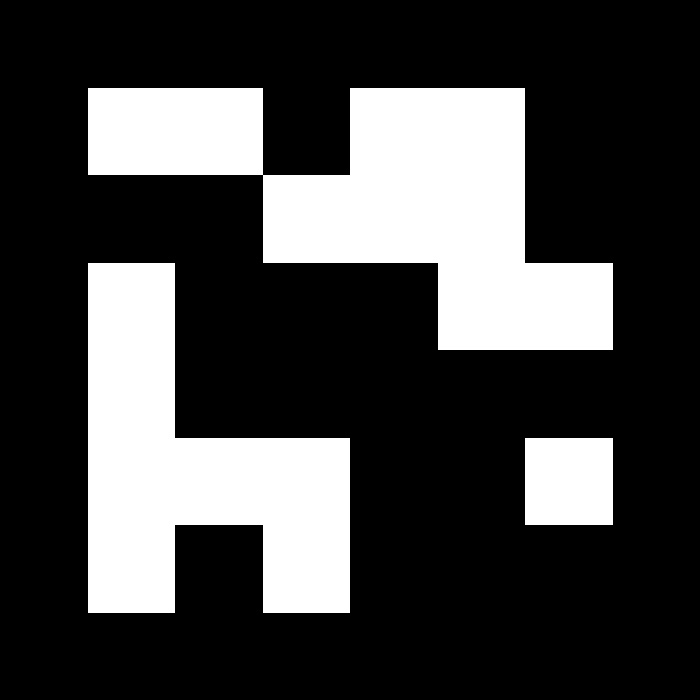
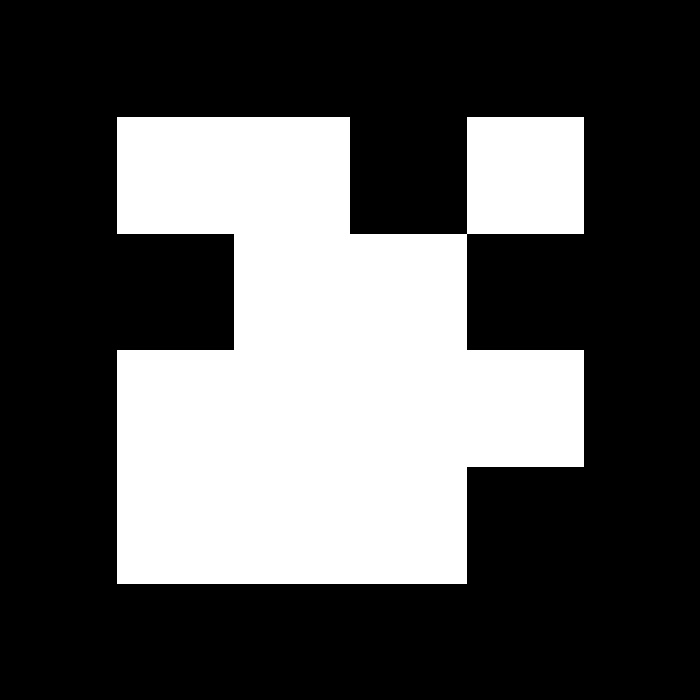
New Images

diff --git a/Fiducial/main.py b/Fiducial/main.py
@@ -5,11 +5,11 @@ from queue import Queue
 from config_file_reader import process_config_file #This is a function in config_file_reader.py
 
 
-general_settings, markers = process_config_file('tracker_config_file.ini')
+# general_settings, markers = process_config_file('tracker_config_file.ini')
 
 
 def generateMarker():
-    markerDict = aruco.getPredefinedDictionary(aruco.DICT_APRILTAG_36h11)
+    markerDict = aruco.getPredefinedDictionary(aruco.DICT_APRILTAG_16h5)
     for i in range(20):
         marker = aruco.generateImageMarker(markerDict, i, 700)
         cv.imwrite(f"Images\\marker{i}.jpg", marker)
@@ -52,6 +52,6 @@ def detectFiducial():
 
 
 def main():
-    detectFiducial()
+    generateMarker()
 if __name__ == '__main__':
     main()
